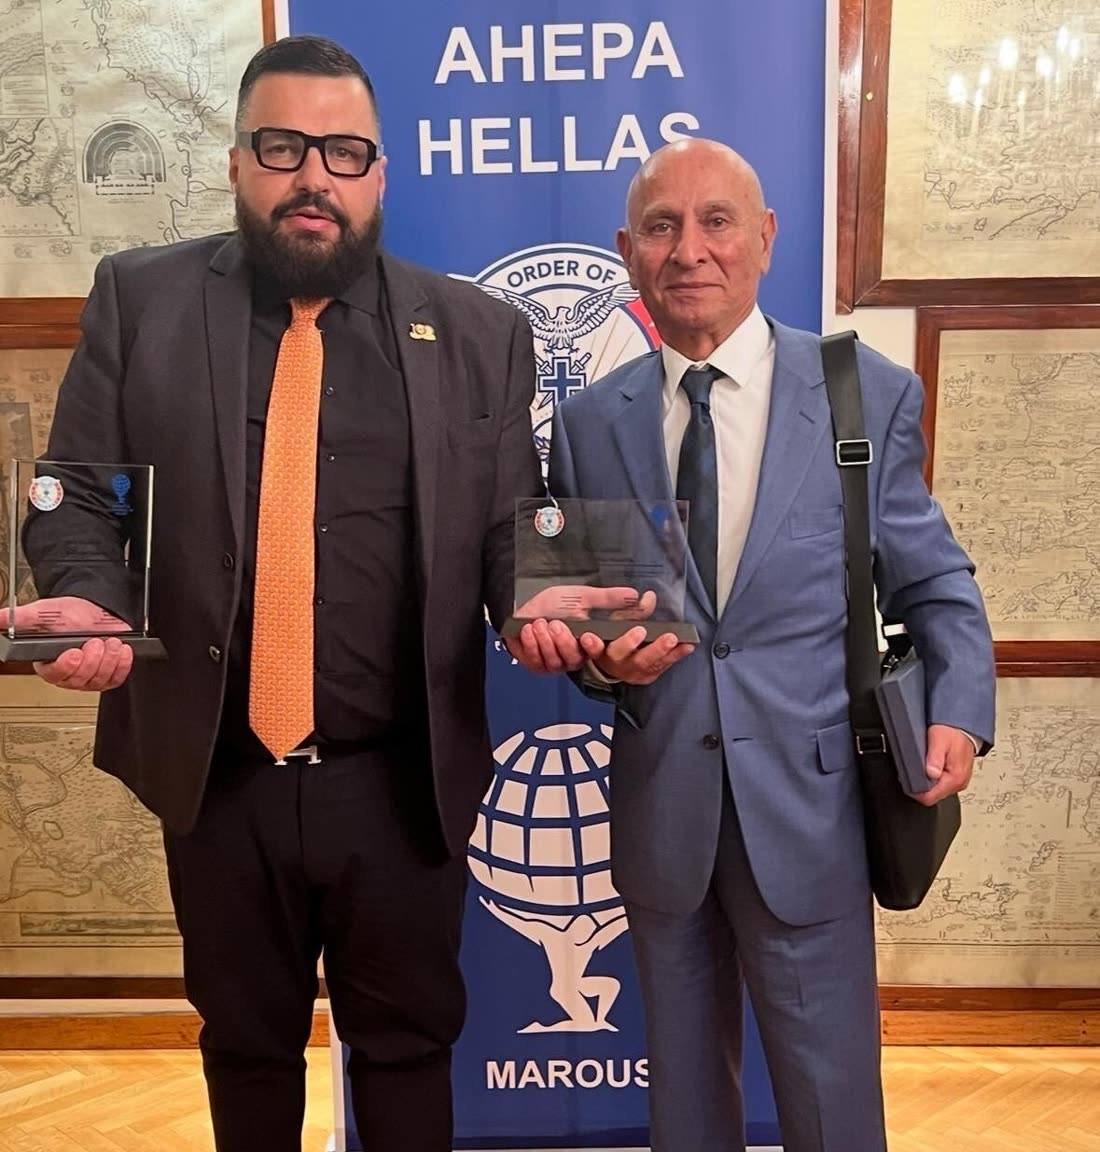
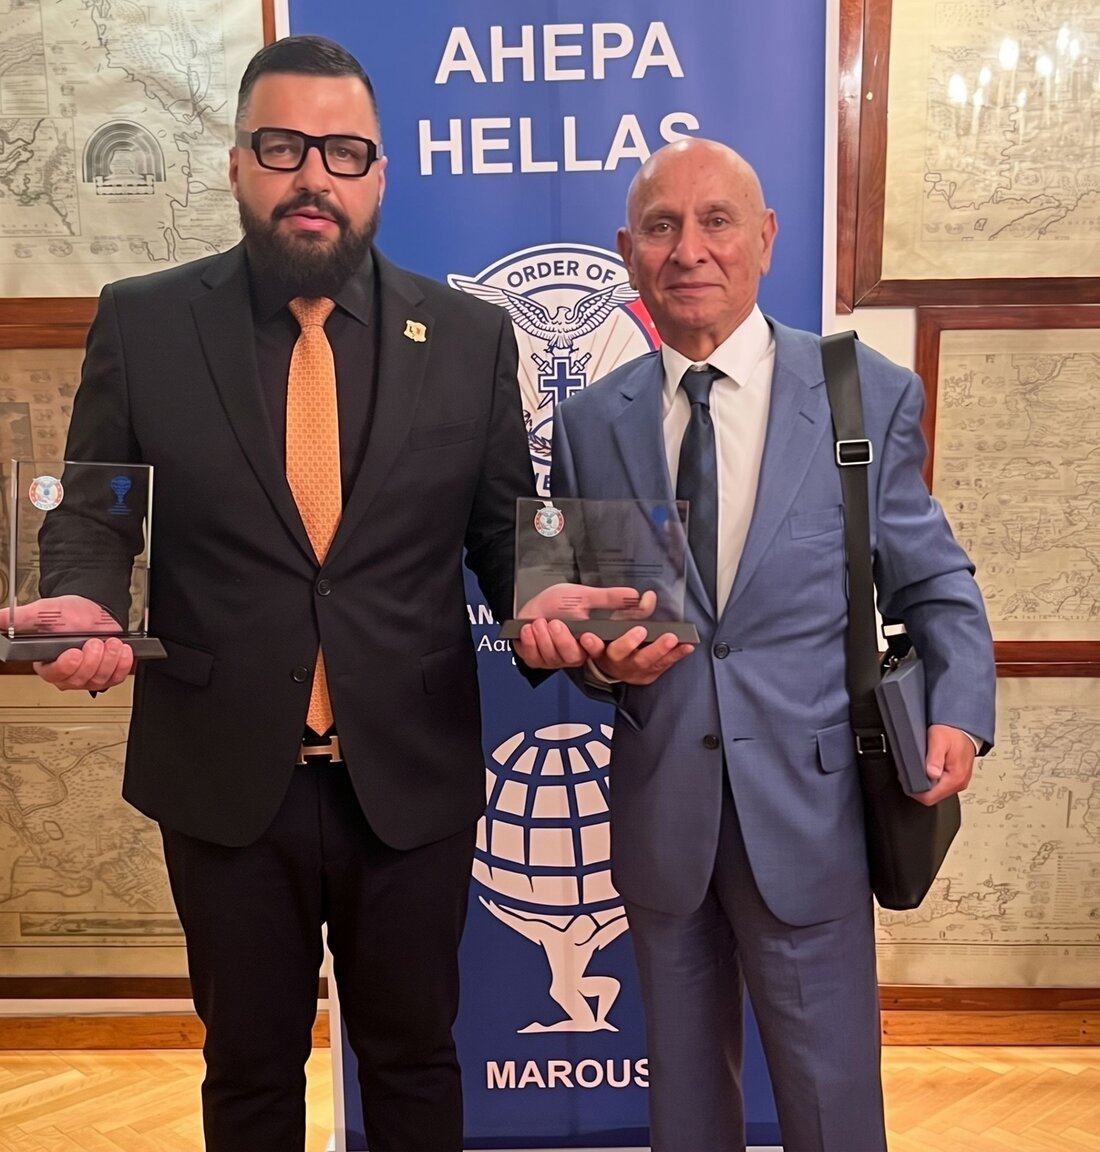
Fix Bio year, blurred-backdrop Awards hero, real Home teaser and AHEPA photos
- Bio "Ο Άνθρωπος": 2003 -> 1997 in both Greek and English copy
- Awards hero: show the portrait photo whole (contain) over a blurred,
  darkened copy on wide screens; keep the cover crop on mobile
- Home awards teaser: use the edited AHEPA Hellas photo and the new
  book-presentation photo, keeping the existing captions
- Replace gallery-02 (AHEPA Hellas, Marousi banner) with the edited version

Claude-Session: https://claude.ai/code/session_01JEN2CgP1XQWGqqjmhqRFQ3

diff --git a/src/pages/Home.tsx b/src/pages/Home.tsx
@@ -35,7 +35,8 @@ const STATS = [
 
 const AWARD_HIGHLIGHTS = [
   {
-    img: '/images/awards/gallery-01.jpg',
+    img: '/images/awards/gallery-02.jpg',
+    imgPosition: '50% 20%',
     category: { el: 'Κοινωνική Προσφορά', en: 'Social Contribution' },
     caption: {
       el: 'Στήριξη ιδρυμάτων και κοινωνικών φορέων — τιμητική αναγνώριση από το Ίδρυμα «Ελπίδα».',
@@ -43,7 +44,8 @@ const AWARD_HIGHLIGHTS = [
     },
   },
   {
-    img: '/images/awards/gallery-06.jpg',
+    img: '/images/home/teaser-book.jpg',
+    imgPosition: '50% 30%',
     category: { el: 'Θεσμική Στήριξη', en: 'Institutional Support' },
     caption: {
       el: 'Τιμητική διάκριση από την Ελληνική Αστυνομία, Διεύθυνση Χαλκιδικής.',
@@ -93,7 +95,12 @@ export function Home() {
           <div className="awards-teaser__grid">
             {AWARD_HIGHLIGHTS.map((h) => (
               <div className="awards-teaser__card" key={h.category.el}>
-                <img className="awards-teaser__img" src={h.img} alt={t(h.category)} />
+                <img
+                  className="awards-teaser__img"
+                  src={h.img}
+                  alt={t(h.category)}
+                  style={{ objectPosition: h.imgPosition }}
+                />
                 <div className="awards-teaser__scrim" />
                 <div className="awards-teaser__content">
                   <div className="eyebrow">{t(h.category)}</div>

diff --git a/src/pages/Bio.tsx b/src/pages/Bio.tsx
@@ -120,8 +120,8 @@ export function Bio() {
             </p>
             <p className="bio-intro__paragraph">
               {t({
-                el: 'Πέρα από τους αριθμούς και τις διακρίσεις, παραμένει προσηλωμένος στις αξίες που έθεσαν τα θεμέλια της επιχειρηματικής του πορείας από το 2003 μέχρι σήμερα.',
-                en: 'Beyond the figures and the distinctions, he remains committed to the values that laid the foundations of his business journey from 2003 to the present day.',
+                el: 'Πέρα από τους αριθμούς και τις διακρίσεις, παραμένει προσηλωμένος στις αξίες που έθεσαν τα θεμέλια της επιχειρηματικής του πορείας από το 1997 μέχρι σήμερα.',
+                en: 'Beyond the figures and the distinctions, he remains committed to the values that laid the foundations of his business journey from 1997 to the present day.',
               })}
             </p>
           </div>

diff --git a/src/index.css b/src/index.css
@@ -705,14 +705,35 @@ button {
   background: var(--ink);
 }
 
-.awards-hero__bg {
+.awards-hero__backdrop {
   position: absolute;
   inset: 0;
   width: 100%;
   height: 100%;
   object-fit: cover;
-  object-position: 50% 15%;
-  filter: brightness(0.8) saturate(1.05);
+  filter: blur(40px) brightness(0.4) saturate(1.15);
+  transform: scale(1.15);
+}
+
+/* Portrait photo: shown whole (contain) over its own blurred backdrop on
+   wide screens, so it isn't cropped to a tight, soft close-up. */
+.awards-hero__bg {
+  position: absolute;
+  inset: 0;
+  width: 100%;
+  height: 100%;
+  object-fit: contain;
+  filter: brightness(0.85) saturate(1.05);
+}
+
+@media (max-width: 780px) {
+  .awards-hero__backdrop {
+    display: none;
+  }
+  .awards-hero__bg {
+    object-fit: cover;
+    object-position: 50% 15%;
+  }
 }
 
 .awards-hero__scrim {

diff --git a/src/pages/Awards.tsx b/src/pages/Awards.tsx
@@ -133,6 +133,7 @@ export function Awards() {
   return (
     <div className="page">
       <section className="awards-hero">
+        <img className="awards-hero__backdrop" src="/images/awards/hero-environment.jpg" alt="" aria-hidden="true" />
         <img className="awards-hero__bg" src="/images/awards/hero-environment.jpg" alt="" aria-hidden="true" />
         <div className="awards-hero__scrim" />
         <div className="container awards-hero__content">
